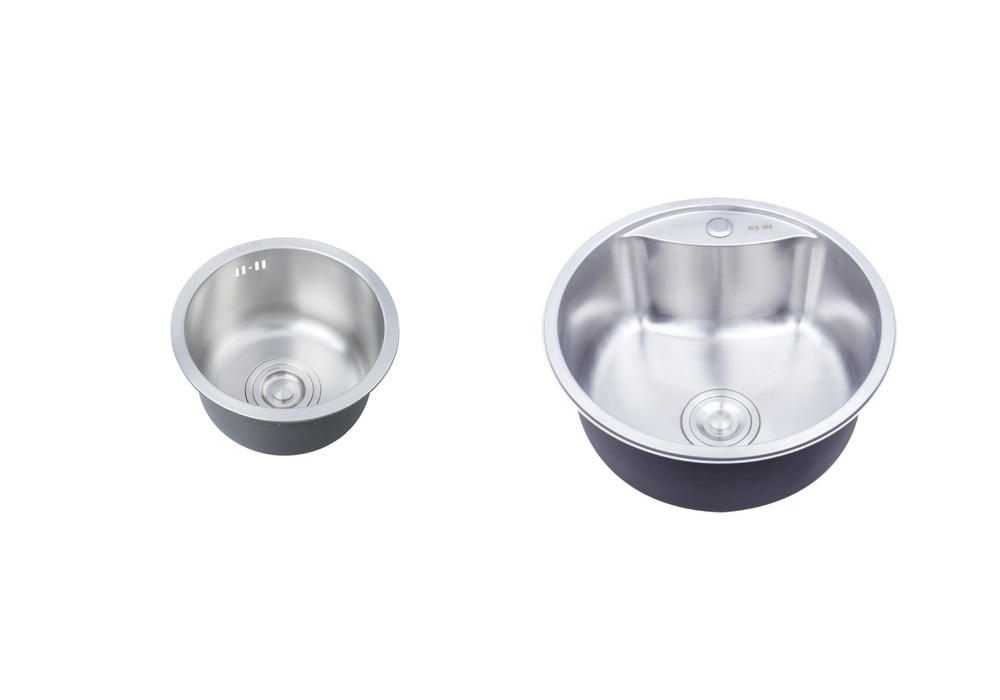
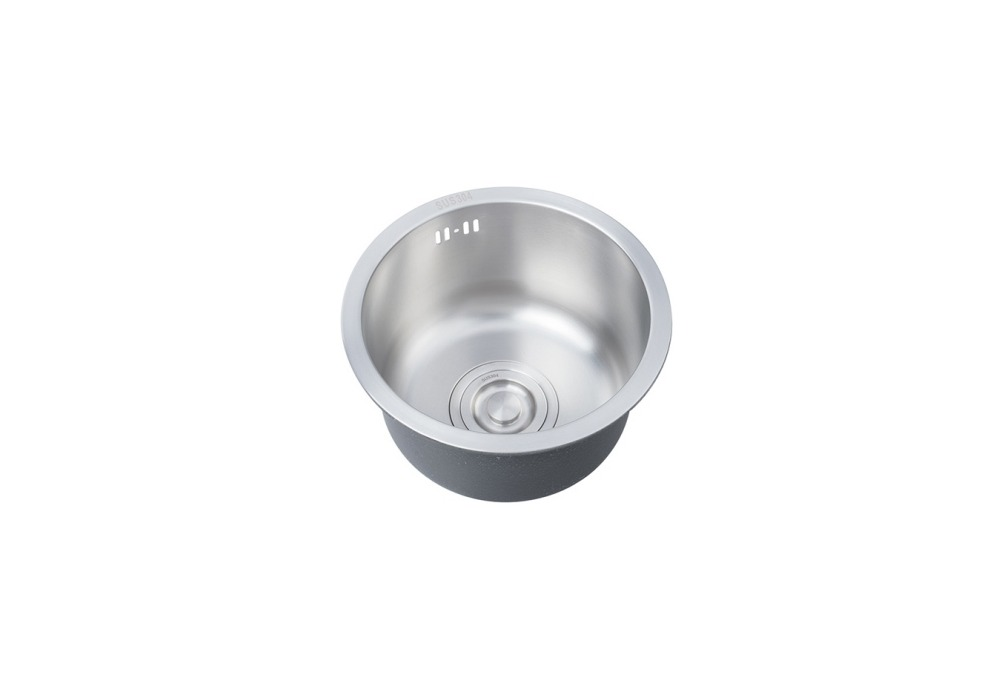
Split round sink model images (#71)

Changed region(s): [[0.155, 0.27, 0.899, 0.75]]

diff --git a/products/drawn-undermount-single-bowl-sink-series-21-22.html b/products/drawn-undermount-single-bowl-sink-series-21-22.html
@@ -1,1 +1,1 @@
-<!DOCTYPE html><html lang="en"><head><meta charset="utf-8"><base href="/"><title>Drawn Undermount Single-Bowl Sink Series | IanProject</title><meta name="viewport" content="width=device-width, initial-scale=1.0"><meta name="description" content="Drawn 304 stainless steel undermount single-bowl sink series from catalogue pages 21-22. USD 11-47 per unit."><meta name="robots" content="index, follow, max-image-preview:large"><link rel="canonical" href="https://ianproject.com/products/drawn-undermount-single-bowl-sink-series-21-22"><meta property="og:type" content="product"><meta property="og:title" content="Drawn Undermount Single-Bowl Sink Series | IanProject"><meta property="og:image" content="https://ianproject.com/img/products/drawn-undermount-single-bowl-sinks/1.jpg"><link href="img/favicon.svg" rel="icon"><link href="https://fonts.googleapis.com/css2?family=Open+Sans&family=Space+Grotesk&display=swap" rel="stylesheet"><link href="https://cdnjs.cloudflare.com/ajax/libs/font-awesome/5.10.0/css/all.min.css" rel="stylesheet"><link href="css/bootstrap.min.css" rel="stylesheet"><link href="css/style.css?v=20260813-image-layout" rel="stylesheet"></head><body><main class="container-fluid py-5"><article id="product-detail" class="container py-4" data-product-id="drawn-undermount-single-bowl-sink-series-21-22"><h1>Drawn Undermount Single-Bowl Sink Series</h1><p>Thirteen 304 stainless steel one-piece drawn sink models.</p></article></main><script src="js/catalog-data.js?v=20260811-flooring"></script><script src="js/sink-series-batch-12-22.js?v=20260813-pdf-sink-data"></script><script src="js/catalog.js?v=20260813-pdf-sink-images-v2"></script></body></html>
+<!DOCTYPE html><html lang="en"><head><meta charset="utf-8"><base href="/"><title>Drawn Undermount Single-Bowl Sink Series | IanProject</title><meta name="viewport" content="width=device-width, initial-scale=1.0"><meta name="description" content="Drawn 304 stainless steel undermount single-bowl sink series from catalogue pages 21-22. USD 11-47 per unit."><meta name="robots" content="index, follow, max-image-preview:large"><link rel="canonical" href="https://ianproject.com/products/drawn-undermount-single-bowl-sink-series-21-22"><meta property="og:type" content="product"><meta property="og:title" content="Drawn Undermount Single-Bowl Sink Series | IanProject"><meta property="og:image" content="https://ianproject.com/img/products/drawn-undermount-single-bowl-sinks/1.jpg"><link href="img/favicon.svg" rel="icon"><link href="https://fonts.googleapis.com/css2?family=Open+Sans&family=Space+Grotesk&display=swap" rel="stylesheet"><link href="https://cdnjs.cloudflare.com/ajax/libs/font-awesome/5.10.0/css/all.min.css" rel="stylesheet"><link href="css/bootstrap.min.css" rel="stylesheet"><link href="css/style.css?v=20260813-image-layout" rel="stylesheet"></head><body><main class="container-fluid py-5"><article id="product-detail" class="container py-4" data-product-id="drawn-undermount-single-bowl-sink-series-21-22"><h1>Drawn Undermount Single-Bowl Sink Series</h1><p>Thirteen 304 stainless steel one-piece drawn sink models.</p></article></main><script src="js/catalog-data.js?v=20260811-flooring"></script><script src="js/sink-series-batch-12-22.js?v=20260813-round-model-mapping"></script><script src="js/catalog.js?v=20260813-pdf-sink-images-v2"></script></body></html>

diff --git a/products/drawn-double-bowl-sink-series-14-16.html b/products/drawn-double-bowl-sink-series-14-16.html
@@ -1,1 +1,1 @@
-<!DOCTYPE html><html lang="en"><head><meta charset="utf-8"><base href="/"><title>Drawn Double-Bowl Sink Series | IanProject</title><meta name="viewport" content="width=device-width, initial-scale=1.0"><meta name="description" content="Drawn 304 stainless steel double-bowl sink series from catalogue pages 14-16. USD 12-49 per unit."><meta name="robots" content="index, follow, max-image-preview:large"><link rel="canonical" href="https://ianproject.com/products/drawn-double-bowl-sink-series-14-16"><meta property="og:type" content="product"><meta property="og:title" content="Drawn Double-Bowl Sink Series | IanProject"><meta property="og:image" content="https://ianproject.com/img/products/drawn-double-bowl-sinks/1.jpg"><link href="img/favicon.svg" rel="icon"><link href="https://fonts.googleapis.com/css2?family=Open+Sans&family=Space+Grotesk&display=swap" rel="stylesheet"><link href="https://cdnjs.cloudflare.com/ajax/libs/font-awesome/5.10.0/css/all.min.css" rel="stylesheet"><link href="css/bootstrap.min.css" rel="stylesheet"><link href="css/style.css?v=20260811-flooring" rel="stylesheet"></head><body><main class="container-fluid py-5"><article id="product-detail" class="container py-4" data-product-id="drawn-double-bowl-sink-series-14-16"><h1>Drawn Double-Bowl Sink Series</h1><p>304 stainless steel one-piece drawn double-bowl sink models.</p></article></main><script src="js/catalog-data.js?v=20260811-flooring"></script><script src="js/sink-series-batch-12-22.js?v=20260813-pdf-sink-data"></script><script src="js/catalog.js?v=20260813-pdf-sink-images-v2"></script></body></html>
+<!DOCTYPE html><html lang="en"><head><meta charset="utf-8"><base href="/"><title>Drawn Double-Bowl Sink Series | IanProject</title><meta name="viewport" content="width=device-width, initial-scale=1.0"><meta name="description" content="Drawn 304 stainless steel double-bowl sink series from catalogue pages 14-16. USD 12-49 per unit."><meta name="robots" content="index, follow, max-image-preview:large"><link rel="canonical" href="https://ianproject.com/products/drawn-double-bowl-sink-series-14-16"><meta property="og:type" content="product"><meta property="og:title" content="Drawn Double-Bowl Sink Series | IanProject"><meta property="og:image" content="https://ianproject.com/img/products/drawn-double-bowl-sinks/1.jpg"><link href="img/favicon.svg" rel="icon"><link href="https://fonts.googleapis.com/css2?family=Open+Sans&family=Space+Grotesk&display=swap" rel="stylesheet"><link href="https://cdnjs.cloudflare.com/ajax/libs/font-awesome/5.10.0/css/all.min.css" rel="stylesheet"><link href="css/bootstrap.min.css" rel="stylesheet"><link href="css/style.css?v=20260811-flooring" rel="stylesheet"></head><body><main class="container-fluid py-5"><article id="product-detail" class="container py-4" data-product-id="drawn-double-bowl-sink-series-14-16"><h1>Drawn Double-Bowl Sink Series</h1><p>304 stainless steel one-piece drawn double-bowl sink models.</p></article></main><script src="js/catalog-data.js?v=20260811-flooring"></script><script src="js/sink-series-batch-12-22.js?v=20260813-round-model-mapping"></script><script src="js/catalog.js?v=20260813-pdf-sink-images-v2"></script></body></html>

diff --git a/products/drawn-single-bowl-sink-series-17-19.html b/products/drawn-single-bowl-sink-series-17-19.html
@@ -1,1 +1,1 @@
-<!DOCTYPE html><html lang="en"><head><meta charset="utf-8"><base href="/"><title>Drawn Single-Bowl Sink Series | IanProject</title><meta name="viewport" content="width=device-width, initial-scale=1.0"><meta name="description" content="Drawn 304 stainless steel single-bowl sink series from catalogue pages 17-19. USD 14-54 per unit."><meta name="robots" content="index, follow, max-image-preview:large"><link rel="canonical" href="https://ianproject.com/products/drawn-single-bowl-sink-series-17-19"><meta property="og:type" content="product"><meta property="og:title" content="Drawn Single-Bowl Sink Series | IanProject"><meta property="og:image" content="https://ianproject.com/img/products/drawn-single-bowl-sinks/1.jpg"><link href="img/favicon.svg" rel="icon"><link href="https://fonts.googleapis.com/css2?family=Open+Sans&family=Space+Grotesk&display=swap" rel="stylesheet"><link href="https://cdnjs.cloudflare.com/ajax/libs/font-awesome/5.10.0/css/all.min.css" rel="stylesheet"><link href="css/bootstrap.min.css" rel="stylesheet"><link href="css/style.css?v=20260811-flooring" rel="stylesheet"></head><body><main class="container-fluid py-5"><article id="product-detail" class="container py-4" data-product-id="drawn-single-bowl-sink-series-17-19"><h1>Drawn Single-Bowl Sink Series</h1><p>304 stainless steel one-piece drawn single-bowl sink models.</p></article></main><script src="js/catalog-data.js?v=20260811-flooring"></script><script src="js/sink-series-batch-12-22.js?v=20260813-pdf-sink-data"></script><script src="js/catalog.js?v=20260813-pdf-sink-images-v2"></script></body></html>
+<!DOCTYPE html><html lang="en"><head><meta charset="utf-8"><base href="/"><title>Drawn Single-Bowl Sink Series | IanProject</title><meta name="viewport" content="width=device-width, initial-scale=1.0"><meta name="description" content="Drawn 304 stainless steel single-bowl sink series from catalogue pages 17-19. USD 14-54 per unit."><meta name="robots" content="index, follow, max-image-preview:large"><link rel="canonical" href="https://ianproject.com/products/drawn-single-bowl-sink-series-17-19"><meta property="og:type" content="product"><meta property="og:title" content="Drawn Single-Bowl Sink Series | IanProject"><meta property="og:image" content="https://ianproject.com/img/products/drawn-single-bowl-sinks/1.jpg"><link href="img/favicon.svg" rel="icon"><link href="https://fonts.googleapis.com/css2?family=Open+Sans&family=Space+Grotesk&display=swap" rel="stylesheet"><link href="https://cdnjs.cloudflare.com/ajax/libs/font-awesome/5.10.0/css/all.min.css" rel="stylesheet"><link href="css/bootstrap.min.css" rel="stylesheet"><link href="css/style.css?v=20260811-flooring" rel="stylesheet"></head><body><main class="container-fluid py-5"><article id="product-detail" class="container py-4" data-product-id="drawn-single-bowl-sink-series-17-19"><h1>Drawn Single-Bowl Sink Series</h1><p>304 stainless steel one-piece drawn single-bowl sink models.</p></article></main><script src="js/catalog-data.js?v=20260811-flooring"></script><script src="js/sink-series-batch-12-22.js?v=20260813-round-model-mapping"></script><script src="js/catalog.js?v=20260813-pdf-sink-images-v2"></script></body></html>

diff --git a/products/round-stainless-steel-sink-series-13.html b/products/round-stainless-steel-sink-series-13.html
@@ -1,1 +1,1 @@
-<!DOCTYPE html><html lang="en"><head><meta charset="utf-8"><base href="/"><title>Round Stainless Steel Sink Series | IanProject</title><meta name="viewport" content="width=device-width, initial-scale=1.0"><meta name="description" content="Round 304 stainless steel drawn sink series in eight sizes. USD 15-55 per unit."><meta name="robots" content="index, follow, max-image-preview:large"><link rel="canonical" href="https://ianproject.com/products/round-stainless-steel-sink-series-13"><meta property="og:type" content="product"><meta property="og:title" content="Round Stainless Steel Sink Series | IanProject"><meta property="og:image" content="https://ianproject.com/img/products/round-stainless-steel-sinks/1.jpg"><link href="img/favicon.svg" rel="icon"><link href="https://fonts.googleapis.com/css2?family=Open+Sans&family=Space+Grotesk&display=swap" rel="stylesheet"><link href="https://cdnjs.cloudflare.com/ajax/libs/font-awesome/5.10.0/css/all.min.css" rel="stylesheet"><link href="css/bootstrap.min.css" rel="stylesheet"><link href="css/style.css?v=20260813-image-layout" rel="stylesheet"></head><body><main class="container-fluid py-5"><article id="product-detail" class="container py-4" data-product-id="round-stainless-steel-sink-series-13"><h1>Round Stainless Steel Sink Series</h1><p>Eight 304 stainless steel one-piece drawn sink sizes.</p></article></main><script src="js/catalog-data.js?v=20260811-flooring"></script><script src="js/sink-series-batch-12-22.js?v=20260813-pdf-sink-data"></script><script src="js/catalog.js?v=20260813-pdf-sink-images-v2"></script></body></html>
+<!DOCTYPE html><html lang="en"><head><meta charset="utf-8"><base href="/"><title>Round Stainless Steel Sink Series | IanProject</title><meta name="viewport" content="width=device-width, initial-scale=1.0"><meta name="description" content="Round 304 stainless steel drawn sink series in eight sizes. USD 15-55 per unit."><meta name="robots" content="index, follow, max-image-preview:large"><link rel="canonical" href="https://ianproject.com/products/round-stainless-steel-sink-series-13"><meta property="og:type" content="product"><meta property="og:title" content="Round Stainless Steel Sink Series | IanProject"><meta property="og:image" content="https://ianproject.com/img/products/round-stainless-steel-sinks/1.jpg"><link href="img/favicon.svg" rel="icon"><link href="https://fonts.googleapis.com/css2?family=Open+Sans&family=Space+Grotesk&display=swap" rel="stylesheet"><link href="https://cdnjs.cloudflare.com/ajax/libs/font-awesome/5.10.0/css/all.min.css" rel="stylesheet"><link href="css/bootstrap.min.css" rel="stylesheet"><link href="css/style.css?v=20260813-image-layout" rel="stylesheet"></head><body><main class="container-fluid py-5"><article id="product-detail" class="container py-4" data-product-id="round-stainless-steel-sink-series-13"><h1>Round Stainless Steel Sink Series</h1><p>Eight 304 stainless steel one-piece drawn sink sizes.</p></article></main><script src="js/catalog-data.js?v=20260811-flooring"></script><script src="js/sink-series-batch-12-22.js?v=20260813-round-model-mapping"></script><script src="js/catalog.js?v=20260813-pdf-sink-images-v2"></script></body></html>

diff --git a/products/round-nano-black-sink-series-12.html b/products/round-nano-black-sink-series-12.html
@@ -1,1 +1,1 @@
-<!DOCTYPE html><html lang="en"><head><meta charset="utf-8"><base href="/"><title>Round Nano-Black Sink Series | IanProject</title><meta name="viewport" content="width=device-width, initial-scale=1.0"><meta name="description" content="Round nano-black 201 stainless steel drawn sink series in seven sizes. USD 10-42 per unit."><meta name="robots" content="index, follow, max-image-preview:large"><link rel="canonical" href="https://ianproject.com/products/round-nano-black-sink-series-12"><meta property="og:type" content="product"><meta property="og:title" content="Round Nano-Black Sink Series | IanProject"><meta property="og:image" content="https://ianproject.com/img/products/round-nano-black-sinks/1.jpg"><link href="img/favicon.svg" rel="icon"><link href="https://fonts.googleapis.com/css2?family=Open+Sans&family=Space+Grotesk&display=swap" rel="stylesheet"><link href="https://cdnjs.cloudflare.com/ajax/libs/font-awesome/5.10.0/css/all.min.css" rel="stylesheet"><link href="css/bootstrap.min.css" rel="stylesheet"><link href="css/style.css?v=20260811-flooring" rel="stylesheet"></head><body><main class="container-fluid py-5"><article id="product-detail" class="container py-4" data-product-id="round-nano-black-sink-series-12"><h1>Round Nano-Black Sink Series</h1><p>Seven 201 stainless steel one-piece drawn sink sizes.</p></article></main><script src="js/catalog-data.js?v=20260811-flooring"></script><script src="js/sink-series-batch-12-22.js?v=20260813-pdf-sink-data"></script><script src="js/catalog.js?v=20260813-pdf-sink-images-v2"></script></body></html>
+<!DOCTYPE html><html lang="en"><head><meta charset="utf-8"><base href="/"><title>Round Nano-Black Sink Series | IanProject</title><meta name="viewport" content="width=device-width, initial-scale=1.0"><meta name="description" content="Round nano-black 201 stainless steel drawn sink series in seven sizes. USD 10-42 per unit."><meta name="robots" content="index, follow, max-image-preview:large"><link rel="canonical" href="https://ianproject.com/products/round-nano-black-sink-series-12"><meta property="og:type" content="product"><meta property="og:title" content="Round Nano-Black Sink Series | IanProject"><meta property="og:image" content="https://ianproject.com/img/products/round-nano-black-sinks/1.jpg"><link href="img/favicon.svg" rel="icon"><link href="https://fonts.googleapis.com/css2?family=Open+Sans&family=Space+Grotesk&display=swap" rel="stylesheet"><link href="https://cdnjs.cloudflare.com/ajax/libs/font-awesome/5.10.0/css/all.min.css" rel="stylesheet"><link href="css/bootstrap.min.css" rel="stylesheet"><link href="css/style.css?v=20260811-flooring" rel="stylesheet"></head><body><main class="container-fluid py-5"><article id="product-detail" class="container py-4" data-product-id="round-nano-black-sink-series-12"><h1>Round Nano-Black Sink Series</h1><p>Seven 201 stainless steel one-piece drawn sink sizes.</p></article></main><script src="js/catalog-data.js?v=20260811-flooring"></script><script src="js/sink-series-batch-12-22.js?v=20260813-round-model-mapping"></script><script src="js/catalog.js?v=20260813-pdf-sink-images-v2"></script></body></html>

diff --git a/js/sink-series-batch-12-22.js b/js/sink-series-batch-12-22.js
@@ -178,9 +178,11 @@
                     { code: "3434", note: "Brushed", size: "340 x 340 x 180 mm", cutout: "320 x 320 mm", material: "304 stainless steel, one-piece drawn" },
                     { code: "3636", note: "Brushed", size: "360 x 360 x 180 mm", cutout: "340 x 340 mm", material: "304 stainless steel, one-piece drawn" }
                 ]},
-                { image: "img/products/round-stainless-steel-sinks/row-3.jpg", imageAlt: "Round sink models 4040, 4242 and 4545", models: [
+                { image: "img/products/round-stainless-steel-sinks/row-3.jpg", imageAlt: "Round sink models 4040 and 4242", models: [
                     { code: "4040", note: "Brushed", size: "400 x 400 x 180 mm", cutout: "380 x 380 mm", material: "304 stainless steel, one-piece drawn" },
-                    { code: "4242", note: "Brushed", size: "420 x 420 x 180 mm", cutout: "400 x 400 mm", material: "304 stainless steel, one-piece drawn" },
+                    { code: "4242", note: "Brushed", size: "420 x 420 x 180 mm", cutout: "400 x 400 mm", material: "304 stainless steel, one-piece drawn" }
+                ]},
+                { image: "img/products/round-stainless-steel-sinks/row-4.jpg", imageAlt: "Round sink model 4545", models: [
                     { code: "4545", note: "Brushed", size: "450 x 450 x 180 mm", cutout: "430 x 430 mm", material: "304 stainless steel, one-piece drawn" }
                 ]}
             ]
